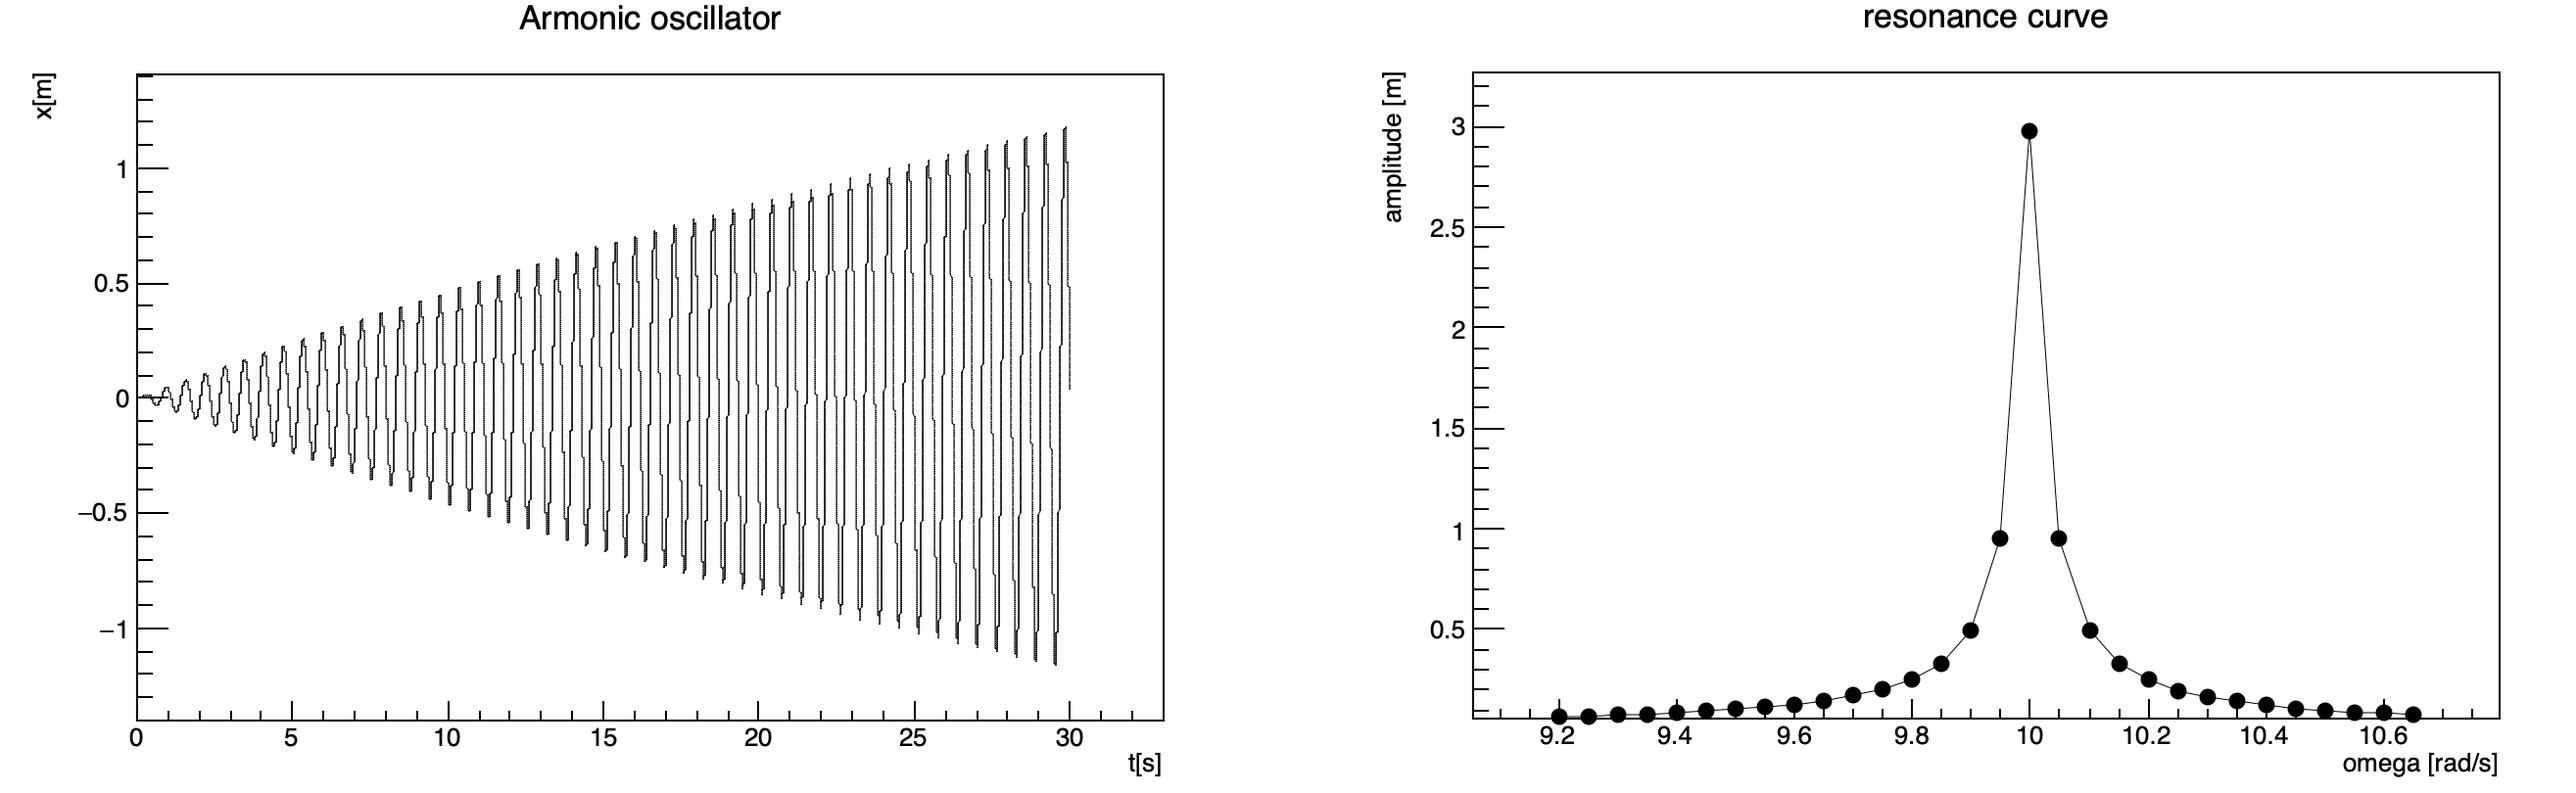
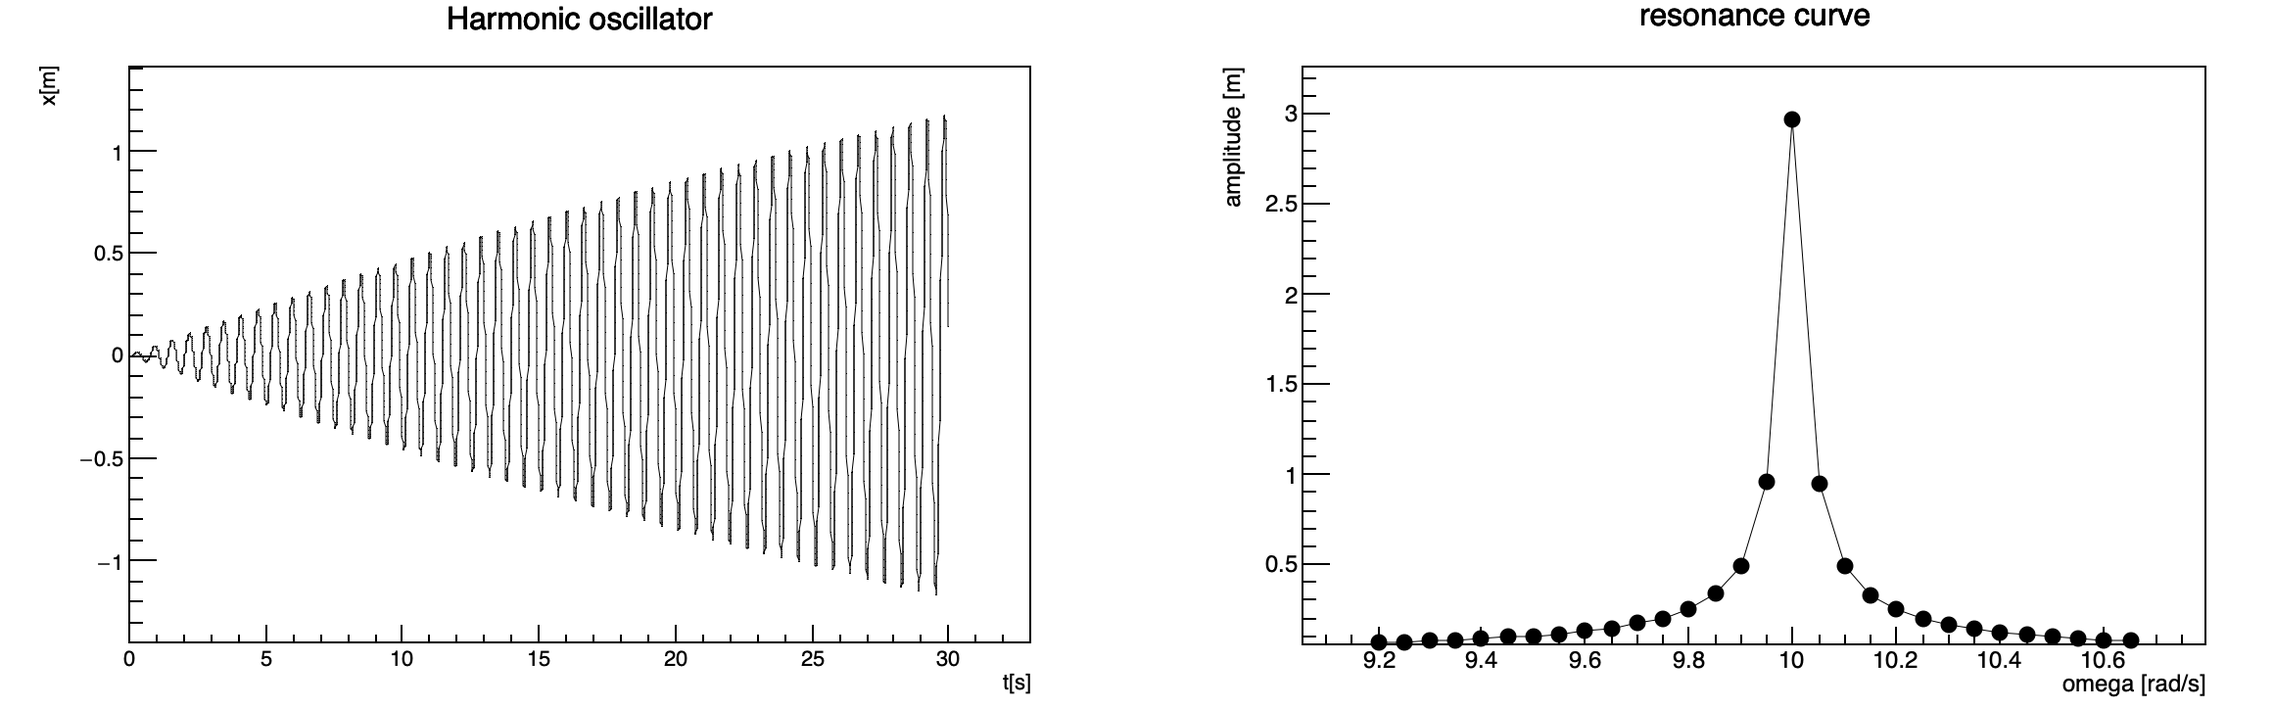
fix

diff --git a/diff_equations/driven_harmonic_oscillator/fvect.h b/diff_equations/driven_harmonic_oscillator/fvect.h
@@ -14,7 +14,7 @@ public:
 };
 
 //==============================================
-//            SIMPLE ARMONIC OSCILLATOR
+//            SIMPLE HARMONIC OSCILLATOR
 //==============================================
 
 class simple_osc: public vect_function_base {
@@ -50,7 +50,7 @@ private:
 
 
 //==============================================
-//        DRIVEN ARMONIC OSCILLATOR
+//        DRIVEN HARMONIC OSCILLATOR
 //==============================================
 
 class oscillator: public vect_function_base {
